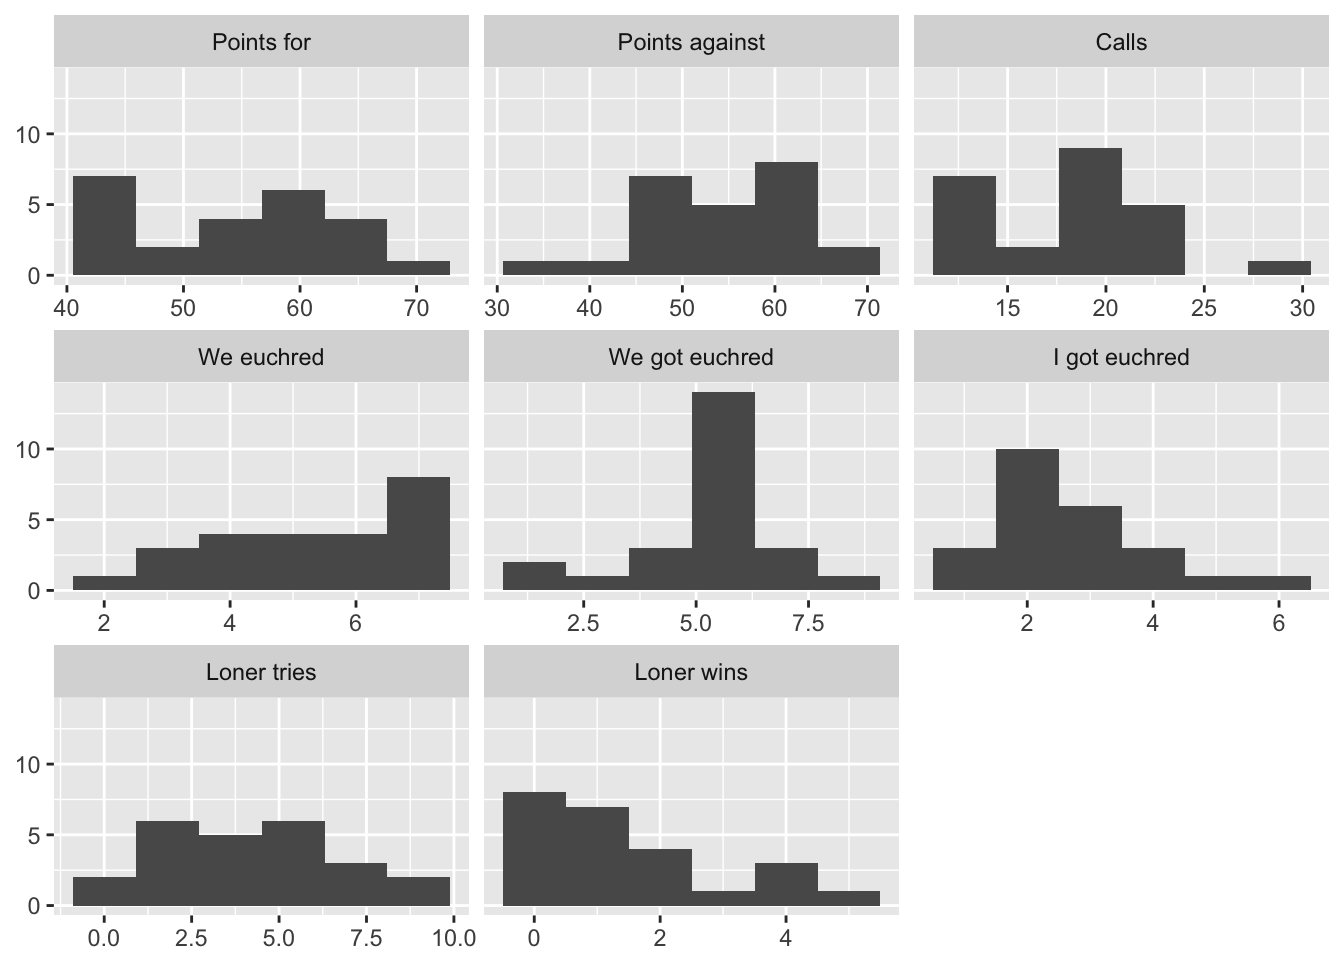
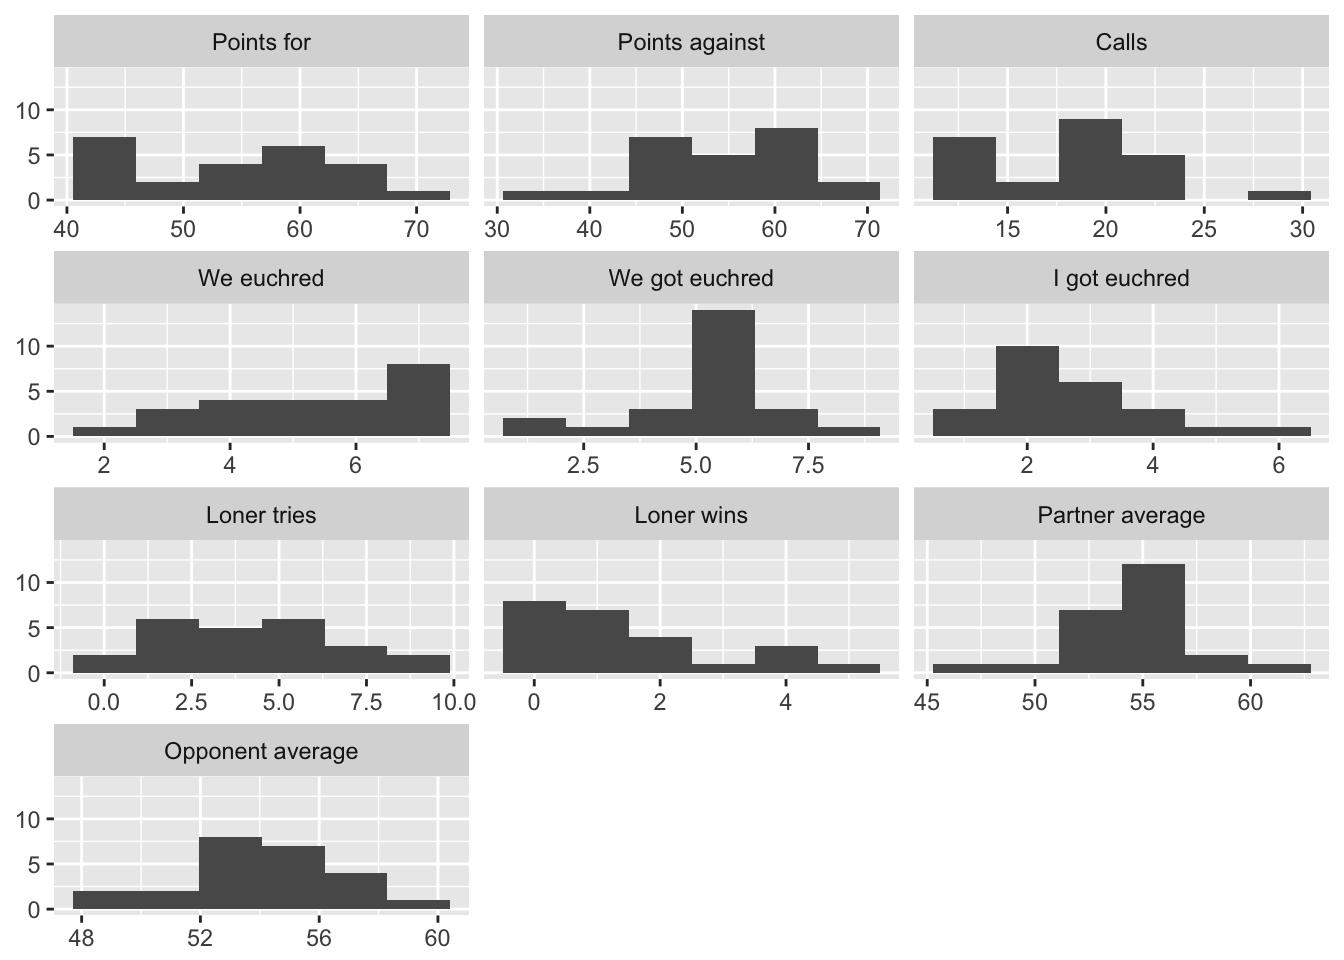
added partner and opponent scores, and graph of points over time

diff --git a/analytics.html b/analytics.html
@@ -130,16 +130,25 @@ $(document).ready(function () {
 <p><a href="Euchre%20Analytics%20December%203rd%20%40%20Anza%20-%20MASTER%20DATA.csv">Raw data</a> and <a href="analytics.Rmd">code</a></p>
 <div id="per-person-statistics" class="section level3">
 <h3>Per-person statistics</h3>
-<div id="htmlwidget-23c8626271d392c0ae94" style="width:100%;height:auto;" class="datatables html-widget"></div>
-<script type="application/json" data-for="htmlwidget-23c8626271d392c0ae94">{"x":{"filter":"none","data":[["Alannah","Allie","Amaan","Dre","Ellen","Guo","Guy","Jeff","Jim","Joel","Julie","Kev","Kotwa","Laura","MC","MO","Manny","Morgan","Natalie","Pat","Rae","Rumi","Shan","Toly"],[65,59,57,63,44,55,47,45,49,57,56,59,66,63,62,43,43,55,41,53,61,68,45,44],[53,55,60,37,59,58,58,59,64,47,48,52,50,38,45,60,62,49,67,48,53,50,57,71],[23,18,15,21,12,20,20,14,13,18,22,21,20,20,24,14,15,18,12,20,28,18,14,12],[3,6,6,4,7,5,7,7,7,5,3,7,7,6,7,3,2,4,4,6,5,5,7,4],[4,6,5,6,7,3,9,7,4,6,5,7,5,2,6,6,6,6,6,6,6,4,2,6],[1,2,3,2,2,1,6,3,2,3,2,3,4,1,5,3,2,4,4,3,2,2,2,2],[5,9,4,5,6,1,3,1,1,9,5,6,0,5,7,4,4,3,2,1,8,8,1,0],[4,3,2,2,1,0,1,0,0,2,4,1,0,1,1,1,0,2,0,1,5,4,0,0]],"container":"<table class=\"display\">\n  <thead>\n    <tr>\n      <th>Name<\/th>\n      <th>Points for<\/th>\n      <th>Points against<\/th>\n      <th>Calls<\/th>\n      <th>We euchred<\/th>\n      <th>We got euchred<\/th>\n      <th>I got euchred<\/th>\n      <th>Loner tries<\/th>\n      <th>Loner wins<\/th>\n    <\/tr>\n  <\/thead>\n<\/table>","options":{"pageLength":24,"columnDefs":[{"className":"dt-right","targets":[1,2,3,4,5,6,7,8]}],"order":[],"autoWidth":false,"orderClasses":false,"lengthMenu":[10,24,25,50,100]}},"evals":[],"jsHooks":[]}</script>
+<div id="htmlwidget-62c6ad8464a5b9174612" style="width:100%;height:auto;" class="datatables html-widget"></div>
+<script type="application/json" data-for="htmlwidget-62c6ad8464a5b9174612">{"x":{"filter":"none","autoHideNavigation":true,"data":[["Alannah","Allie","Amaan","Dre","Ellen","Guo","Guy","Jeff","Jim","Joel","Julie","Kev","Kotwa","Laura","MC","MO","Manny","Morgan","Natalie","Pat","Rae","Rumi","Shan","Toly"],[65,59,57,63,44,55,47,45,49,57,56,59,66,63,62,43,43,55,41,53,61,68,45,44],[53,55,60,37,59,58,58,59,64,47,48,52,50,38,45,60,62,49,67,48,53,50,57,71],[23,18,15,21,12,20,20,14,13,18,22,21,20,20,24,14,15,18,12,20,28,18,14,12],[3,6,6,4,7,5,7,7,7,5,3,7,7,6,7,3,2,4,4,6,5,5,7,4],[4,6,5,6,7,3,9,7,4,6,5,7,5,2,6,6,6,6,6,6,6,4,2,6],[1,2,3,2,2,1,6,3,2,3,2,3,4,1,5,3,2,4,4,3,2,2,2,2],[5,9,4,5,6,1,3,1,1,9,5,6,0,5,7,4,4,3,2,1,8,8,1,0],[4,3,2,2,1,0,1,0,0,2,4,1,0,1,1,1,0,2,0,1,5,4,0,0],[59.2,54.2,57.8,53.5,54.3,54.7,53.5,56.2,55.5,51.2,52.8,54.5,54.7,54.8,53,49.5,55.2,53.2,61.8,54.3,47.2,54.2,55.2,52.7],[54.8,52.8,55.6,48.8,59.4,55.4,53.1,55.1,55.5,53.4,53.6,52.7,53.7,50.1,49.3,56.8,57.3,52.9,58,51.8,54.4,53.9,55.4,56.9]],"container":"<table class=\"display\">\n  <thead>\n    <tr>\n      <th>Name<\/th>\n      <th>Points for<\/th>\n      <th>Points against<\/th>\n      <th>Calls<\/th>\n      <th>We euchred<\/th>\n      <th>We got euchred<\/th>\n      <th>I got euchred<\/th>\n      <th>Loner tries<\/th>\n      <th>Loner wins<\/th>\n      <th>Partner average<\/th>\n      <th>Opponent average<\/th>\n    <\/tr>\n  <\/thead>\n<\/table>","options":{"pageLength":24,"columnDefs":[{"className":"dt-right","targets":[1,2,3,4,5,6,7,8,9,10]}],"order":[],"autoWidth":false,"orderClasses":false,"lengthMenu":[10,24,25,50,100]}},"evals":[],"jsHooks":[]}</script>
 </div>
 <div id="distributions" class="section level3">
 <h3>Distributions</h3>
+<pre><code>## Warning in melt.data.table(agg_data, id = &quot;name&quot;): &#39;measure.vars&#39; [score,
+## opp_score, called, weeuchred, ...] are not all of the same type. By order
+## of hierarchy, the molten data value column will be of type &#39;double&#39;. All
+## measure variables not of type &#39;double&#39; will be coerced to. Check DETAILS
+## in ?melt.data.table for more on coercion.</code></pre>
 <p><img src="analytics_files/figure-html/analysis2-1.png" width="672" /></p>
 </div>
 <div id="relationship-between-times-called-and-total-score" class="section level3">
 <h3>Relationship between times called and total score</h3>
 <p><img src="analytics_files/figure-html/analysis3-1.png" width="672" /></p>
+</div>
+<div id="score-over-time" class="section level3">
+<h3>Score over time</h3>
+<p><img src="analytics_files/figure-html/analysis4-1.png" width="672" /></p>
 </div>
 
 
